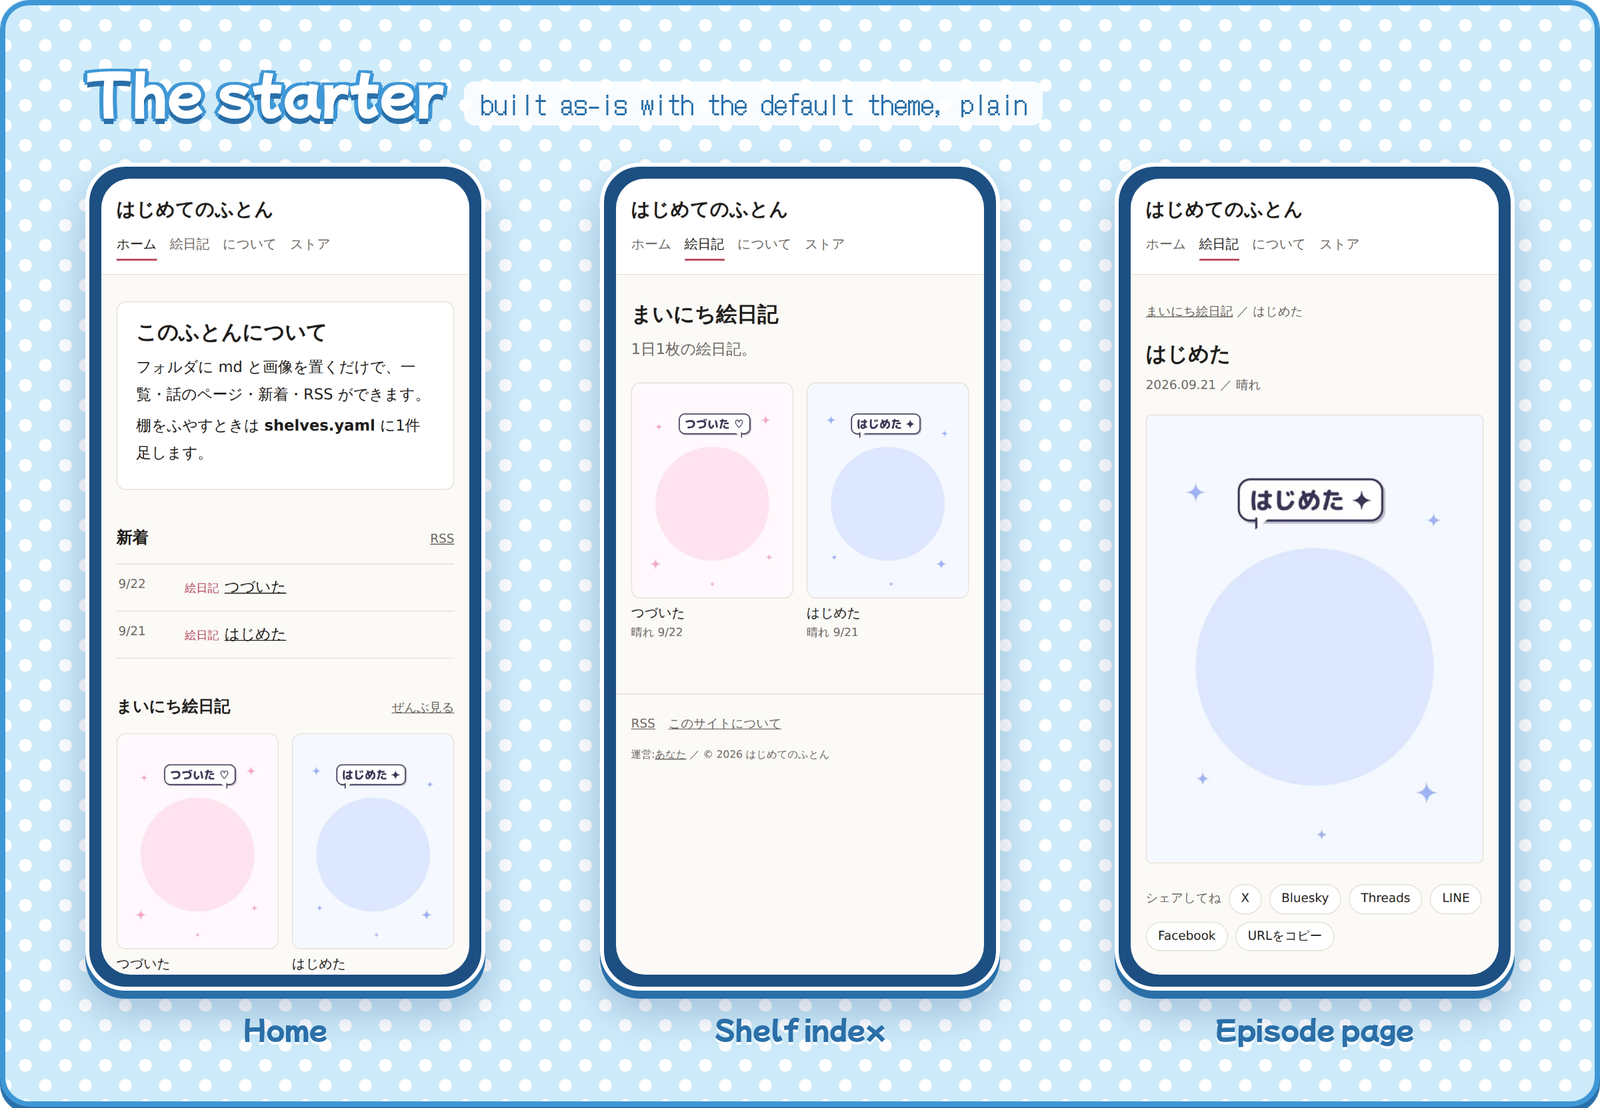
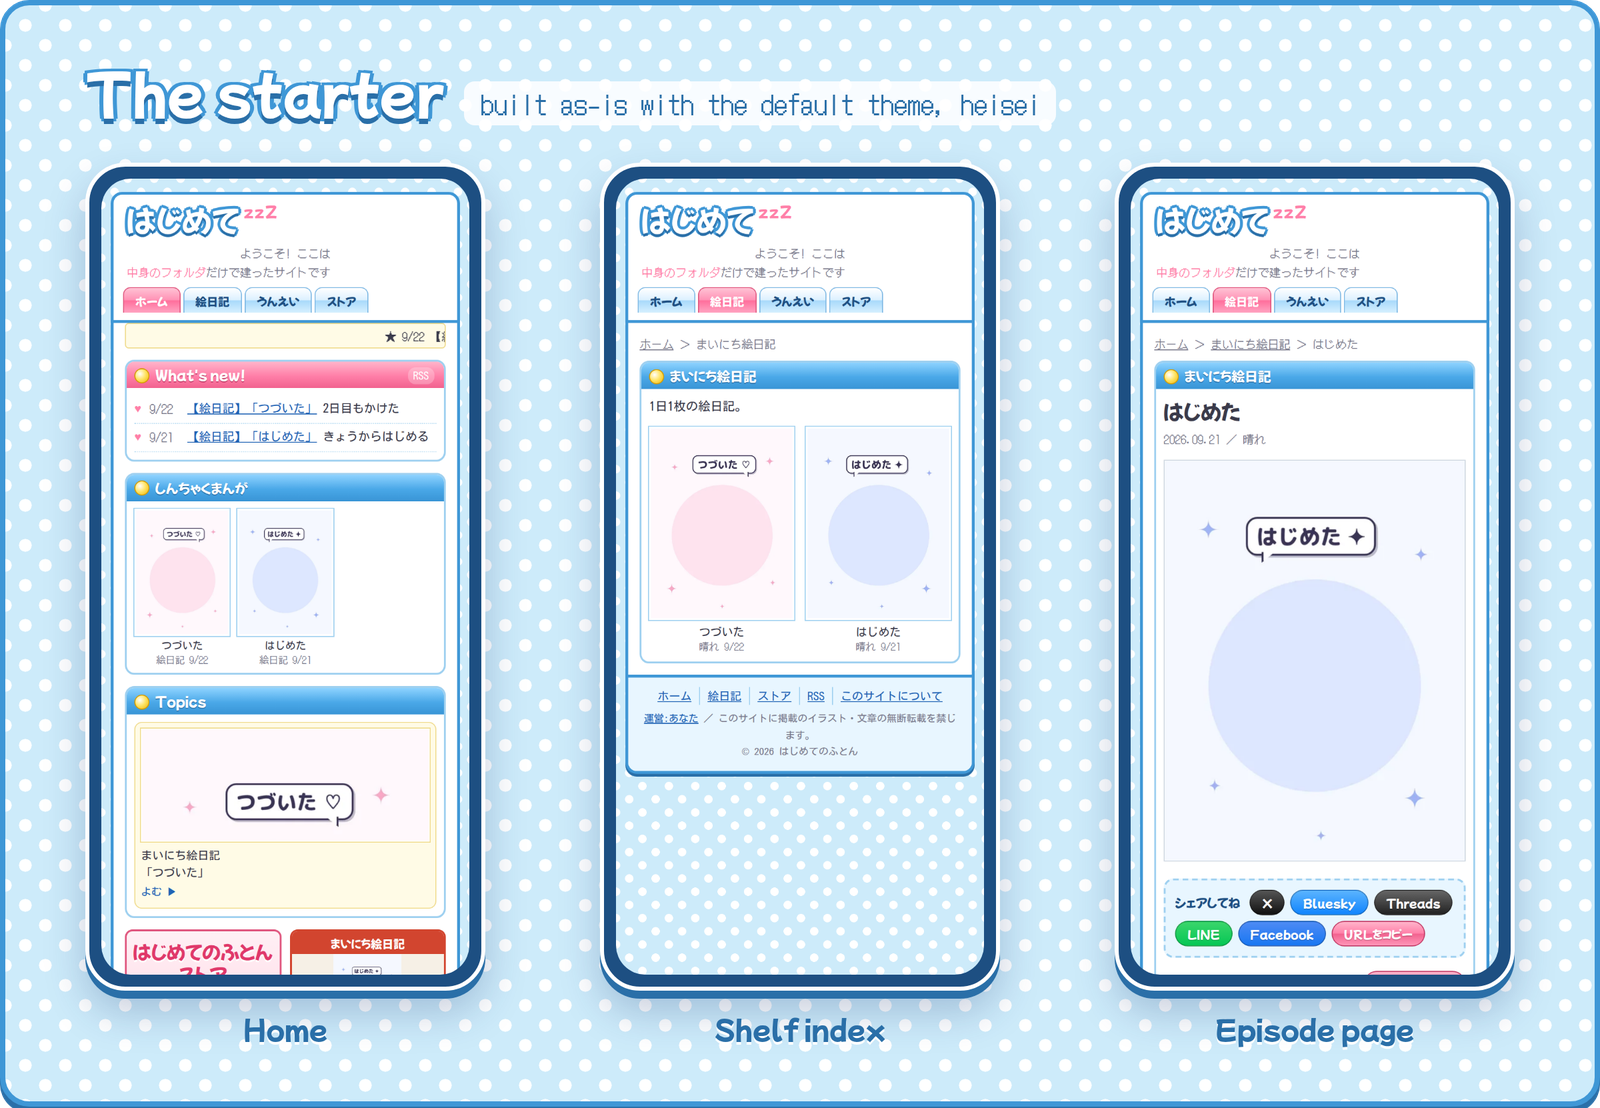
標準のテーマを heisei に(theme を書かなければ heisei、飾りなしは plain)。README・雛形の手順・画像もそれに合わせた。0.2.0
Claude-Session: https://claude.ai/code/session_014mMGGQ2Dx5MKXGDHGyL4qt

diff --git a/README.ja.md b/README.ja.md
@@ -28,7 +28,7 @@ npm run dev                       # ふとんに入る(http://localhost:4321 で
 npm run build                     # ふとんを干す(dist/ に書き出す。どこにでも置ける静的サイト)
 ```
 
-テーマを決めて敷くなら `npm create futon@latest my-site -- --theme heisei`。
+テーマを決めて敷くなら `npm create futon@latest my-site -- --theme techou`。
 敷いたあとは、そのフォルダの中で `npx futon …` が使える:
 
 ```bash
@@ -41,7 +41,7 @@ npx futon add <棚> …     # 1話足す
 
 フォルダは引数(`futon dev ./mysite`)か環境変数 `FUTON` で渡す。どちらもなければ `./futon`。Node.js 22.18 以上。
 
-雛形をそのまま干すと、こうなる(標準テーマ plain):
+雛形をそのまま干すと、こうなる(標準テーマ heisei):
 
 <p align="center"><img src="docs/images/screens.png" alt="雛形「はじめてのふとん」のホーム・棚の一覧・話のページ" width="820"></p>
 
@@ -53,8 +53,8 @@ futon には8着ついてくる。`site.json` に名前を1行書くだけで着
 
 | テーマ | 見た目 |
 |---|---|
-| `plain`(標準) | 飾りのない、読みやすさだけのテーマ。`theme` を書かなければこれ |
-| `heisei` | 平成のキャラクターサイト風。ドットの背景・ロゴ・タブ・ティッカー・バナー・キャラクターしょうかい・本。書くと出る欄は [`themes/heisei/README.md`](themes/heisei/README.md) |
+| `heisei`(標準) | 平成のキャラクターサイト風。`theme` を書かなければこれ。ドットの背景・ロゴ・タブ・ティッカー・バナー・キャラクターしょうかい・本。書くと出る欄は [`themes/heisei/README.md`](themes/heisei/README.md) |
+| `plain` | 飾りのない、読みやすさだけのテーマ |
 | `techou` | 週間の手帳。左はウィークリー(新着)、右は方眼にキャラのスタンプとまんがのシール。蛍光マーカーと赤いダブルクリップ。[`themes/techou/README.md`](themes/techou/README.md) |
 | `kaomoji` | パステルのデスクトップの窓と、顔文字のふきだし。新着はチャット、キャラはふきだしでしゃべる。暗い画面では夜のデスクトップ |
 | `vhs` | 電気みたいな青に黄色いマーカー、ビデオデッキのメニュー画面。キャラは PLAYER SELECT、404 は黄緑の ERR0R 画面 |
@@ -112,8 +112,8 @@ export async function sync(ctx, value, args) {
 
 ## テーマ(着せ替え)
 
-見た目は全部テーマが持つ。`site.json` の `"theme"` に、ついてくるテーマの名前(`"plain"` / `"heisei"` / `"techou"` / `"kaomoji"` / `"vhs"` / `"keitai"` / `"mado"` / `"receipt"`)か、ふとんからの相対パス(`"./themes/mine"`)か、パッケージ名を書く。
-書かなければ標準の **plain**。
+見た目は全部テーマが持つ。`site.json` の `"theme"` に、ついてくるテーマの名前(`"heisei"` / `"plain"` / `"techou"` / `"kaomoji"` / `"vhs"` / `"keitai"` / `"mado"` / `"receipt"`)か、ふとんからの相対パス(`"./themes/mine"`)か、パッケージ名を書く。
+書かなければ標準の **heisei**。
 `FUTON_THEME=<テーマ> futon build` で、site.json を変えずにそのときだけ着せ替えて見られる。
 
 テーマは次の .astro を持つフォルダ(またはパッケージ):

diff --git a/README.md b/README.md
@@ -39,7 +39,7 @@ npm run dev                       # get in (preview at http://localhost:4321)
 npm run build                     # air out (static site in dist/, host it anywhere)
 ```
 
-To pick a theme up front: `npm create futon@latest my-site -- --theme heisei`.
+To pick a theme up front: `npm create futon@latest my-site -- --theme techou`.
 Inside that folder you can also use `npx futon …`:
 
 ```bash
@@ -51,7 +51,7 @@ npx futon add <shelf> …  # add one episode
 
 The content folder is taken from the argument (`futon dev ./mysite`) or the `FUTON` environment variable, defaulting to `./futon`. Requires Node.js 22.18+.
 
-The starter, built as-is with the default theme `plain`:
+The starter, built as-is with the default theme `heisei`:
 
 <p align="center"><img src="docs/images/en/screens.png" alt="The starter site: home, shelf index and episode page" width="820"></p>
 
@@ -63,8 +63,8 @@ futon ships with eight themes. Put the name in `site.json` and you're wearing it
 
 | Theme | Look |
 |---|---|
-| `plain` (default) | No decoration, just readable. Used when `theme` is omitted |
-| `heisei` | A 2000s Japanese character fan site: polka dots, outlined logo, aqua tabs, ticker, banners, character profiles, books. Fields it reads: [`themes/heisei/README.md`](themes/heisei/README.md) |
+| `heisei` (default) | A 2000s Japanese character fan site — used when `theme` is omitted: polka dots, outlined logo, aqua tabs, ticker, banners, character profiles, books. Fields it reads: [`themes/heisei/README.md`](themes/heisei/README.md) |
+| `plain` | No decoration, just readable |
 | `techou` | A weekly planner spread: the left page is a week of new posts, the right is grid paper with character stamps and comic stickers. Highlighter pens and red binder clips |
 | `kaomoji` | Pastel desktop windows and emoticon speech bubbles. New posts are a chat; characters talk in bubbles. Night desktop in dark mode |
 | `vhs` | Electric blue with yellow highlighter, a VCR menu screen. Characters are a PLAYER SELECT; the 404 is a lime ERR0R screen |
@@ -122,8 +122,8 @@ Where images can't be fetched, episodes to add are queued in `sync/pending.json`
 
 ## Writing a theme
 
-A theme owns the whole look. Set `"theme"` in `site.json` to a bundled name (`"plain"` / `"heisei"` / `"techou"` / `"kaomoji"` / `"vhs"` / `"keitai"` / `"mado"` / `"receipt"`), a path relative to your futon (`"./themes/mine"`), or a package name.
-Omit it for **plain**.
+A theme owns the whole look. Set `"theme"` in `site.json` to a bundled name (`"heisei"` / `"plain"` / `"techou"` / `"kaomoji"` / `"vhs"` / `"keitai"` / `"mado"` / `"receipt"`), a path relative to your futon (`"./themes/mine"`), or a package name.
+Omit it for **heisei**.
 `FUTON_THEME=<theme> futon build` tries a theme once without touching `site.json`.
 
 A theme is a folder (or package) with these .astro files:

diff --git a/CLAUDE.md b/CLAUDE.md
@@ -3,7 +3,7 @@
 中身のフォルダ(ふとん)を敷いておくと、寝ている間に自分のホームページが整う個人サイトエンジン。使い方は README.md(英語)と README.ja.md(日本語)。
 
 - **エンジンに特定のサイトの中身を入れない。** 名前・文言・シリーズ・取り込み口など、サイト固有のものは利用者のふとん(`site.json`・`shelves.yaml`・`sources/`・`pages/`)に置く
-- **エンジンに見た目を入れない。** 見た目はテーマ(標準は `themes/plain/`)。エンジンの `engine/src/pages/` は、どのテーマ部品を出すかを書いた薄いページだけにする
+- **エンジンに見た目を入れない。** 見た目はテーマ(標準は `themes/heisei/`、飾りなしは `themes/plain/`)。エンジンの `engine/src/pages/` は、どのテーマ部品を出すかを書いた薄いページだけにする
 - 変えたら確かめる:雛形が標準テーマで建つこと、ついてくるテーマが全部見本で建つこと(`node tools/try.mjs`。どちらも `.github/workflows/check.yml` と同じ)。すでに futon を使っているサイトがあるなら、そのサイトで変える前と後の `futon build` の結果を比べて、意図しない差がないこと
 - 利用者向けの言葉はふとんの世界観でそろえる(敷く=init/入る=dev/干す=build/寝かしつけ=sync)
 - futon の顔は文字だけのロゴ(`docs/images/logo.png`、MIT)。キャラクターは顔にしない

diff --git a/create/README.md b/create/README.md
@@ -7,12 +7,12 @@ npm install
 npm run dev
 ```
 
-テーマを決めて敷くなら `npm create futon@latest my-site -- --theme heisei`(`plain` / `heisei` / `techou` / `kaomoji` / `vhs` / `keitai` / `mado` / `receipt`)。
+テーマを決めて敷くなら `npm create futon@latest my-site -- --theme techou`(`heisei`(標準) / `plain` / `techou` / `kaomoji` / `vhs` / `keitai` / `mado` / `receipt`)。
 
 futon 本体の説明は https://github.com/YasunaCoffee/futon
 
 ---
 
 **English:** create-futon lays out a new site for [futon](https://github.com/YasunaCoffee/futon), an AI-friendly personal site engine.
-Run the four lines above; add `-- --theme <name>` to start in a theme (`plain` / `heisei` / `techou` / `kaomoji` / `vhs` / `keitai` / `mado` / `receipt`).
+Run the four lines above; add `-- --theme <name>` to start in a theme (`heisei` (default) / `plain` / `techou` / `kaomoji` / `vhs` / `keitai` / `mado` / `receipt`).
 The new folder includes `AGENTS.md`, so you can ask an AI agent things like "add an episode" right away.

diff --git a/starter/AGENTS.md b/starter/AGENTS.md
@@ -15,7 +15,7 @@
 | 「キャラを足して」 | `site.json` の `characters` に1件足す(`slug`・`name`・`image`・`text`、あれば顔の `face`) |
 | 「本を足して」 | `site.json` の `books` に1件足す。出てくるキャラは `characters: ["slug"]` |
 | 「この話に出てくる人を出して」 | 棚全体なら `shelves.yaml` の `cast: [slug]`、1話だけなら md に `cast: [slug]` |
-| 「見た目を変えて」 | `site.json` の `"theme"` を書き換える(plain / heisei / techou / kaomoji / vhs / keitai / mado / receipt) |
+| 「見た目を変えて」 | `site.json` の `"theme"` を書き換える(heisei(標準) / plain / techou / kaomoji / vhs / keitai / mado / receipt) |
 | 「サイト名・紹介文を変えて」 | `site.json` の `title`・`description`・`intro` |
 
 ## 確かめる
